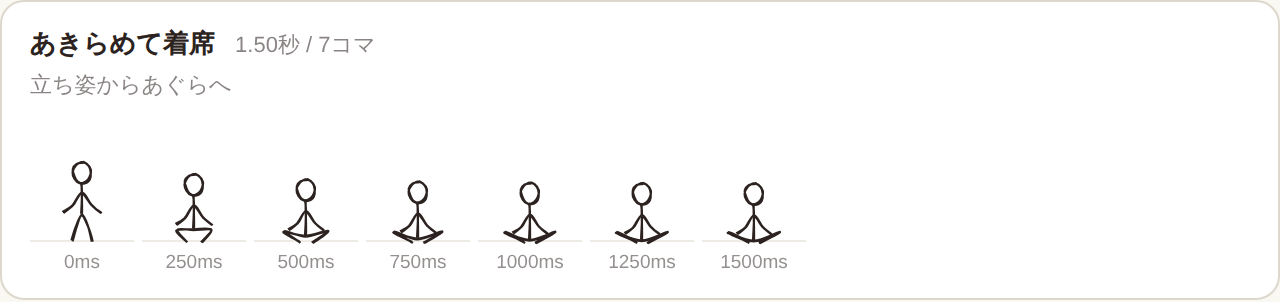
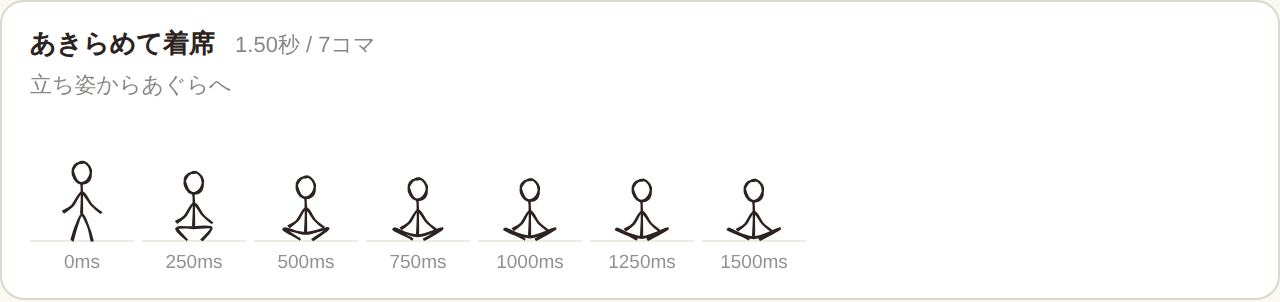
あぐらで座った時に足と腰が地面より沈んで見えるのを修正
組んだ足先(y=9)と腰が地面(y=8)の高さ以下にあり、線の太さと手描きのゆらぎが
乗って文字の下端より沈んで見えていた。形は変えずにポーズ全体を2持ち上げた。

Claude-Session: https://claude.ai/code/session_01HG8sCsKqCo4Dxu5mMbs57H

diff --git a/src/pose.ts b/src/pose.ts
@@ -569,20 +569,21 @@ export class StickmanState {
       const swayFootR = lerpPoint(neutral.legR, tauntFootR, t);
 
       // あぐら風: 膝を左右に大きく開き、足先は逆に体の中心近くまで寄せる(手描き参考画像に合わせた)
-      const sitHip = { x: neutral.hip.x, y: neutral.hip.y + 16 };
-      const sitArmL = { x: -10, y: 4 };
-      const sitArmR = { x: 10, y: 4 };
-      const sitKneeL = { x: -15, y: 3 };
-      const sitKneeR = { x: 15, y: 3 };
-      const sitFootL = { x: -3, y: 9 };
-      const sitFootR = { x: 3, y: 9 };
+      // 組んだ足と腰の線が地面(y=8)より沈まないよう、線の太さぶん上に置いている
+      const sitHip = { x: neutral.hip.x, y: neutral.hip.y + 14 };
+      const sitArmL = { x: -10, y: 2 };
+      const sitArmR = { x: 10, y: 2 };
+      const sitKneeL = { x: -15, y: 1 };
+      const sitKneeR = { x: 15, y: 1 };
+      const sitFootL = { x: -3, y: 7 };
+      const sitFootR = { x: 3, y: 7 };
 
       hip.x = lerp(swayHip.x, sitHip.x, this.sitAmt);
       hip.y = lerp(swayHip.y, sitHip.y, this.sitAmt);
       head.cx = lerp(swayHeadCx, neutral.head.cx, this.sitAmt);
-      head.cy += lerp(swayDip, 13, this.sitAmt);
+      head.cy += lerp(swayDip, 11, this.sitAmt);
       neck.x = lerp(swayNeckX, neutral.neck.x, this.sitAmt);
-      neck.y += lerp(swayDip, 13, this.sitAmt);
+      neck.y += lerp(swayDip, 11, this.sitAmt);
       armL = lerpPoint(swayArmL, sitArmL, this.sitAmt);
       armR = lerpPoint(swayArmR, sitArmR, this.sitAmt);
       kneeL = lerpPoint(swayKneeL, sitKneeL, this.sitAmt);
